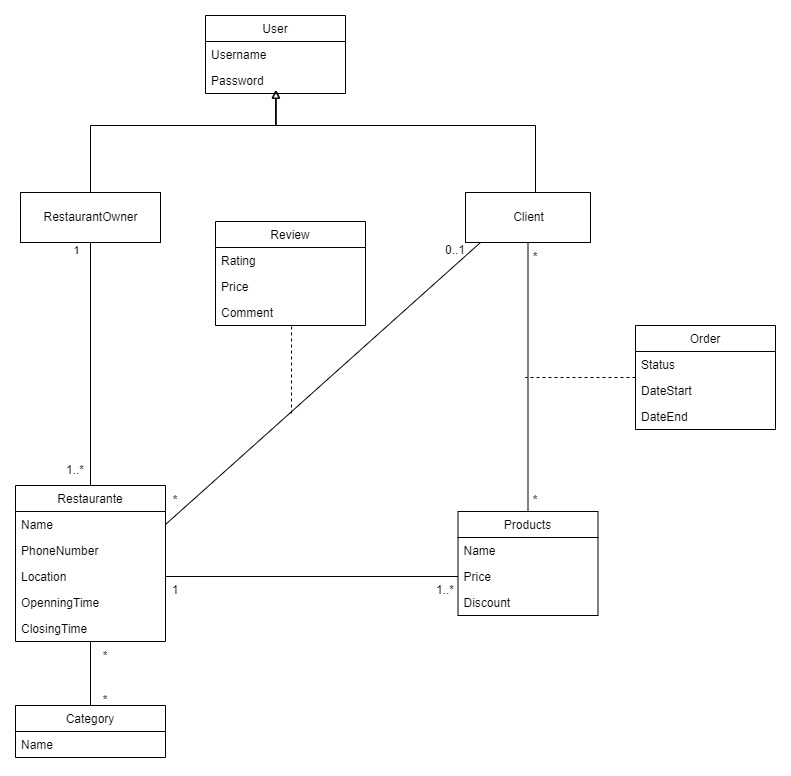
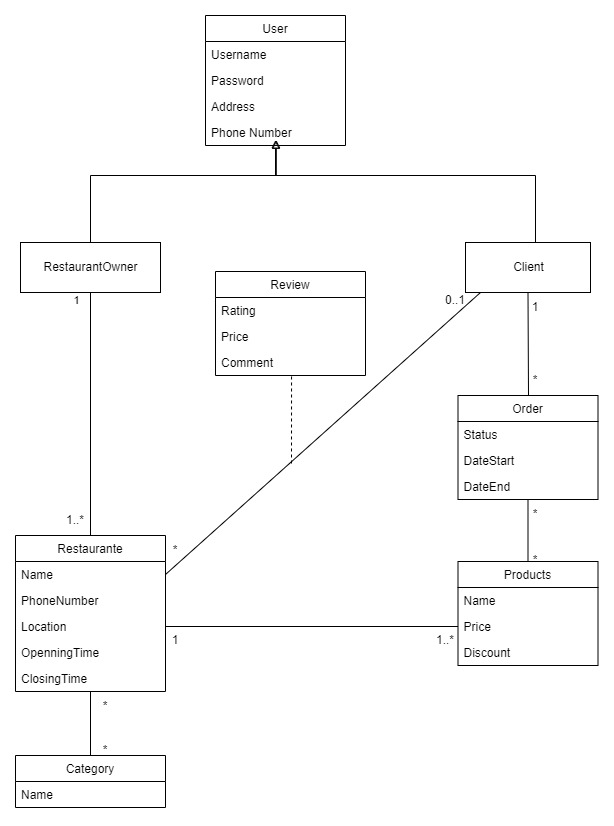
UML changes (orders are now a class)

diff --git a/README.md b/README.md
@@ -45,6 +45,8 @@ This is the UML of our database for the YummyYummy website.
 
 ![UML](images/Development/YummyUML.jpg)
 
+Keep in mind that some extra changes might be made in order to add functionalities.
+
 ### Developers
 
 - João Alves
